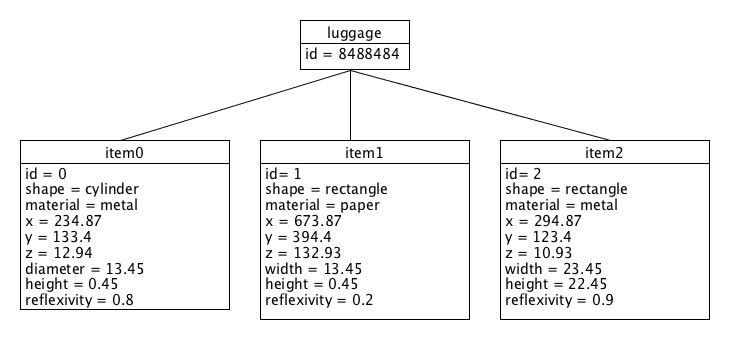
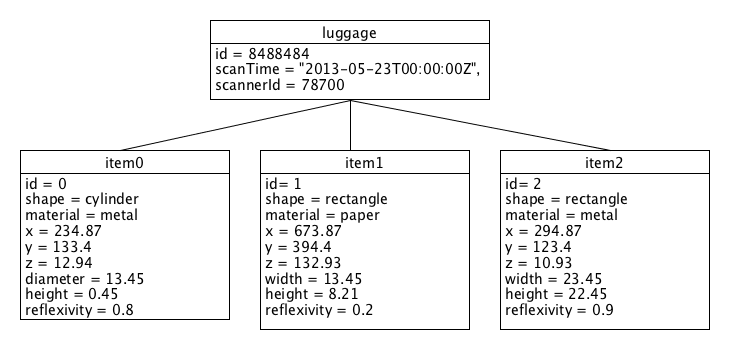
sw

diff --git a/_drafts/developing-protean-applications-part3.md b/_drafts/developing-protean-applications-part3.md
@@ -161,6 +161,37 @@ Each item contains space coordinates relative to the baggage and geometrical
 and material properties. A sample of a scan event is on Figure 1.
 
 /// Figure 1: JSON samples
+```json
+{
+  "id": 8488484,
+  "scanTime": "2013-05-23T00:00:00Z",
+  "scannerId": 78700,
+  "items": [
+    {
+      "id": 0,
+      "shape": "cylinder",
+      "material": "metal",
+      "x": 234.87,
+      "y": 133.4,
+      "z": 12.94,
+      "diameter": 13.45,
+      "height": 0.45,
+      "reflexivity": 0.8
+    },
+    {
+      "id": 1,
+      "shape": "rectangle",
+      "material": "paper",
+      "x": 673.87,
+      "y": 394.4,
+      "z": 132.93,
+      "width": 13.45,
+      "height": 8.21,
+      "reflexivity": 0.2
+    }
+  ]
+}
+```
 
 The sample suggests that the structure of the scanned item has two degrees of freedom:
 shape and material. These two dimensions can be described as traits of the scanned item.
